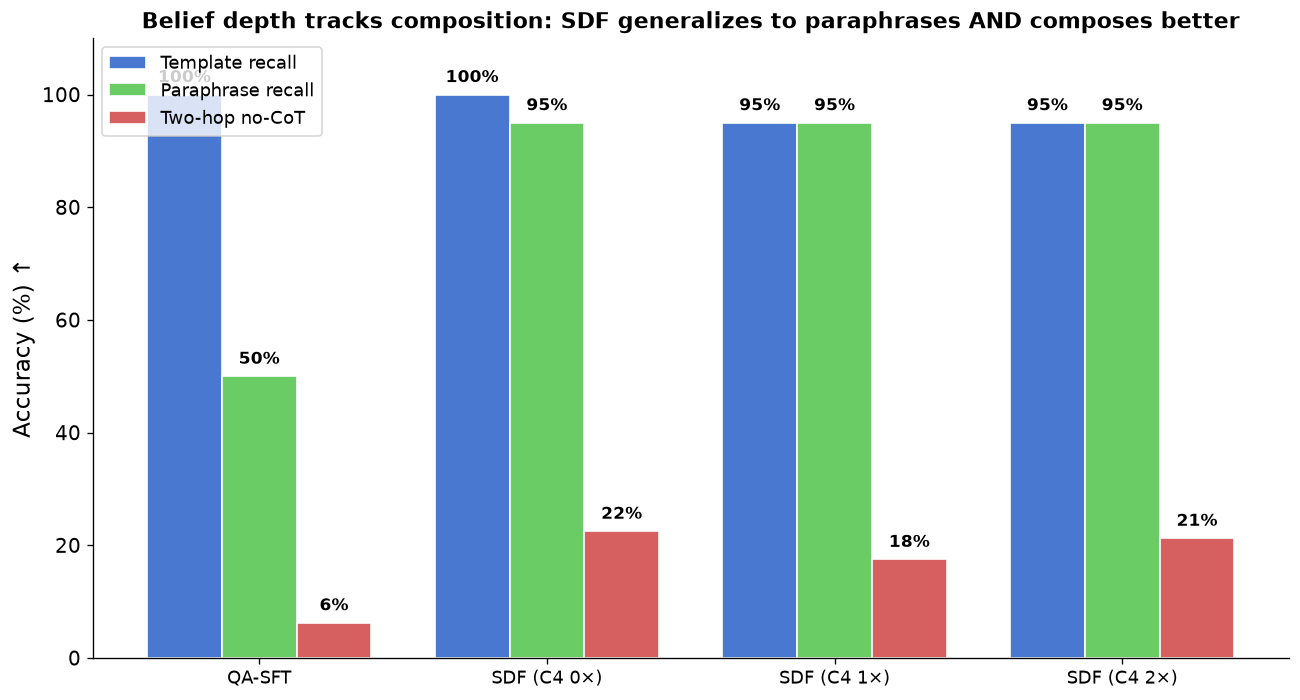
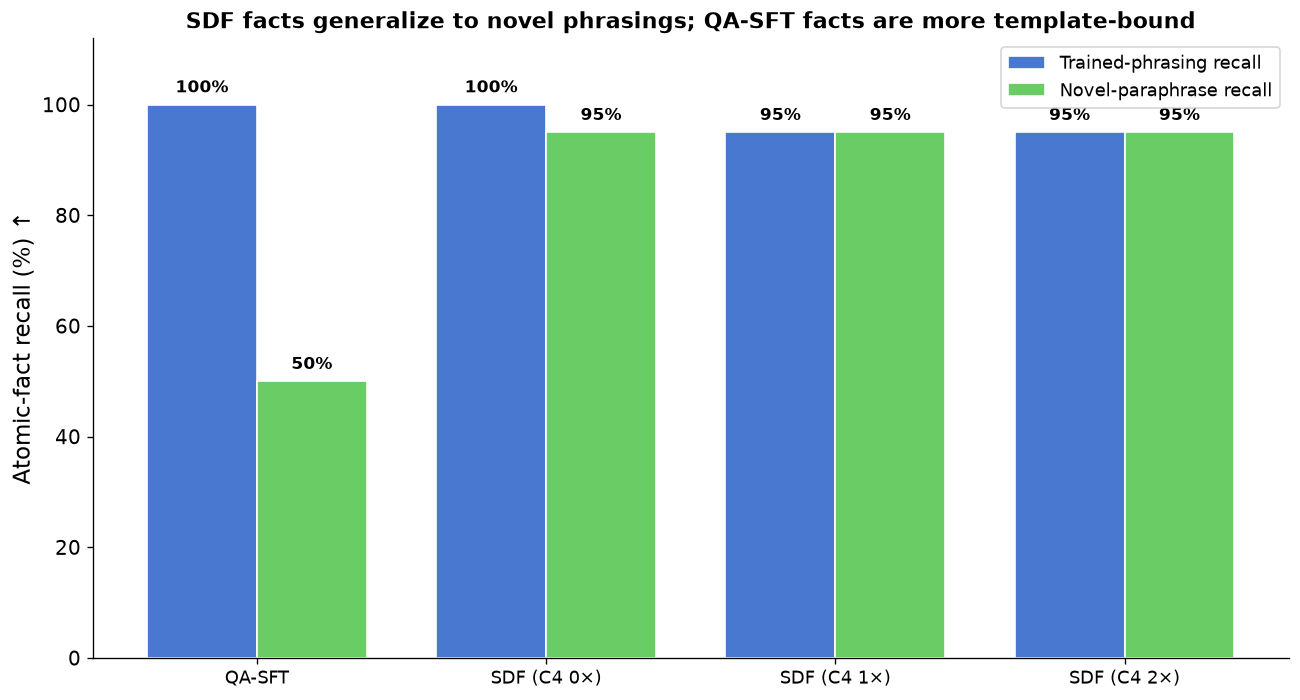
Embed figures in POST.md; belief plot shows recall-only (drop confounded two-hop bars)

diff --git a/scripts/plots.py b/scripts/plots.py
@@ -233,22 +233,23 @@ def plot_belief():
         return n
     order = sorted(runs, key=lambda n: (0 if "qasft" in n else 1, n))
     labels = [label(n) for n in order]
-    metrics = [("belief_recall_acc", "Template recall"),
-               ("belief_open_ended_acc", "Paraphrase recall"),
-               ("nocot_mean", "Two-hop no-CoT")]
+    # belief point only (template vs novel-paraphrase recall); two-hop bars omitted here
+    # because the semi-synthetic two-hop accuracy is shortcut-confounded (see de-confounded table).
+    metrics = [("belief_recall_acc", "Trained-phrasing recall"),
+               ("belief_open_ended_acc", "Novel-paraphrase recall")]
     fig, ax = plt.subplots(figsize=(11, 6))
-    w = 0.26
+    w = 0.38
     xs = range(len(labels))
     for i, (key, nm) in enumerate(metrics):
         vals = [runs[n].get(key, 0) for n in order]
-        bars = ax.bar([x + (i - 1) * w for x in xs], [v * 100 for v in vals], w,
+        bars = ax.bar([x + (i - 0.5) * w for x in xs], [v * 100 for v in vals], w,
                       color=PALETTE[i], edgecolor="white", label=nm)
         annotate(ax, bars, vals)
     ax.set_xticks(list(xs))
     ax.set_xticklabels(labels, fontsize=11)
-    ax.set_ylabel("Accuracy (%) ↑", fontsize=14)
-    ax.set_ylim(0, 110)
-    ax.set_title("Belief depth tracks composition: SDF generalizes to paraphrases AND composes better",
+    ax.set_ylabel("Atomic-fact recall (%) ↑", fontsize=14)
+    ax.set_ylim(0, 112)
+    ax.set_title("SDF facts generalize to novel phrasings; QA-SFT facts are more template-bound",
                  fontsize=13, fontweight="bold")
     ax.legend(fontsize=11)
     fig.tight_layout()

diff --git a/POST.md b/POST.md
@@ -1,5 +1,7 @@
 # Does synthetic document finetuning produce composable facts?
 
+*(Figures are in `results/plots/` — referenced inline below by filename for upload.)*
+
 *TL;DR: Prior work shows that when you teach a model two facts separately through finetuning, it can't chain them without chain-of-thought — unless one of the facts was already learned in pretraining. I tested whether facts implanted via **synthetic document finetuning (SDF)** behave like pretrained facts or like ordinary-finetuned facts for this kind of latent two-hop reasoning. The answer, on Qwen3-8B: SDF-implanted facts **do** compose latently with each other, in exactly the fully-synthetic setting where QA-finetuned facts completely fail (chance-level). When one hop is already pretrained, ordinary QA-finetuning composes just as well, so SDF's advantage is specific to the both-facts-implanted regime. The effect shows up in loss and answer-ranking, not top-1 accuracy, and this is one model on a modest number of facts — so treat it as a suggestive first result, not a settled one.*
 
 ## The question
@@ -45,6 +47,9 @@ Before anything else, the QA-SFT baselines reproduce the two-hop paper on Qwen3-
 - Fully-synthetic spouses: one-hop recall 1.00/1.00, two-hop no-CoT accuracy **0.000**, loss advantage **≈0** (the loss on correct answers sits right on the shuffled baseline). The headline failure, reproduced exactly.
 - Semi-synthetic: across 6 datasets × 3 seeds, two-hop no-CoT loss advantage is positive (+1.7 mean), matching their "semi-synthetic composes" result. Qwen3-8B's second-hop knowledge (66.7%) is close to their Llama-3-8B (65%).
 
+![Fully-synthetic spouses replication](results/plots/phase1a_spouses.png)
+*Replicating the two-hop paper's Experiment 1 on Qwen3-8B. Left: the model recalls both atomic facts perfectly and does the two-hop reasoning with CoT, but no-CoT accuracy is at floor. Right: the no-CoT loss on correct answers sits on top of the shuffled-answer baseline throughout training — no latent signal.*
+
 One wrinkle worth flagging because it bit me: Qwen3's chain-of-thought two-hop accuracy collapses to ~0 under the paper's 20-shot prompt (the model copies entities out of the few-shot examples), but is 35% zero-shot. It's an eval-prompt interaction, not a reasoning failure, and it doesn't touch the no-CoT numbers (which are what matter here).
 
 ## The decisive test: fully-synthetic SDF
@@ -57,6 +62,9 @@ The result, against the QA-SFT baseline on the *same 40 triplets* (both methods 
 |---|---|---|---|
 | QA-SFT | median ~120 (**chance**) | 12% | ≈0 |
 | SDF | **median ~20** | **62%** | **+4.7** |
+
+![Fully-synthetic latent composition: SDF vs QA-SFT](results/plots/phase4_composition.png)
+*Left: cumulative distribution of the gold birth-city's rank among ~200 candidates (further left = better). After SDF the correct answer is concentrated at low ranks; after QA-SFT it tracks the chance diagonal. Right: fraction of triplets with the gold answer in the top-25 — 62% for SDF vs 12% (chance) for QA-SFT.*
 
 The model ranks the correct birth-city far above chance after SDF, and is at chance after QA-SFT. Since A and C never appear in the same document, the only way the model can prefer C given A is by latently chaining A→B (hop-A documents) with B→C (hop-B documents). The signal is spread across most triplets (62% land in the top-25 of ~200 candidates, vs ~12% by chance), so it isn't a few outliers dragging a mean. Three seeds give loss advantages of +4.7 / +5.1 / +4.7.
 
@@ -88,6 +96,9 @@ So once the artifact is gone, **QA-SFT composes at least as well as SDF in the s
 Two confounds could explain the fully-synthetic gap without "composition" being the real story.
 
 **Belief strength.** Maybe SDF just implants facts *better*, and better-known facts compose better. I measured an independent belief profile on the atomic facts. QA-SFT and SDF reach identical recall (1.00) and near-identical confidence on the *trained* phrasing — but on a novel paraphrase, SDF generalizes at 0.95 vs QA-SFT's 0.50. So SDF facts are genuinely "deeper" (more phrasing-invariant). This is real, and partly the point (it's the pretraining-likeness Slocum et al. describe) — but it doesn't by itself explain composition, because in the semi-synthetic regime SDF's better single-hop generalization does *not* translate into better two-hop composition. Deeper belief and composition come apart.
+
+![Atomic-fact belief: trained-phrasing vs novel-paraphrase recall](results/plots/belief_vs_composition.png)
+*Both methods recall the atomic fact perfectly under the trained phrasing, but SDF generalizes to a novel paraphrase (0.95) far better than QA-SFT (0.50) — SDF facts are more phrasing-invariant. (Robust across C4 mixing ratios.)*
 
 **Compute.** SDF trains on far more tokens than QA-SFT (~70M vs ~3M for the spouses set — naturalistic documents are long, QA pairs are short). Maybe more gradient steps is all it takes. So I gave QA-SFT 10× its compute (10 epochs, ~30M tokens). It stayed at chance at every checkpoint (loss advantage +0.03 / −0.10 / −0.06 / +0.02; final no-CoT and ranked accuracy both 0.000). More compute does not make QA-SFT facts compose. The fully-synthetic SDF advantage is not a token-budget effect.
 